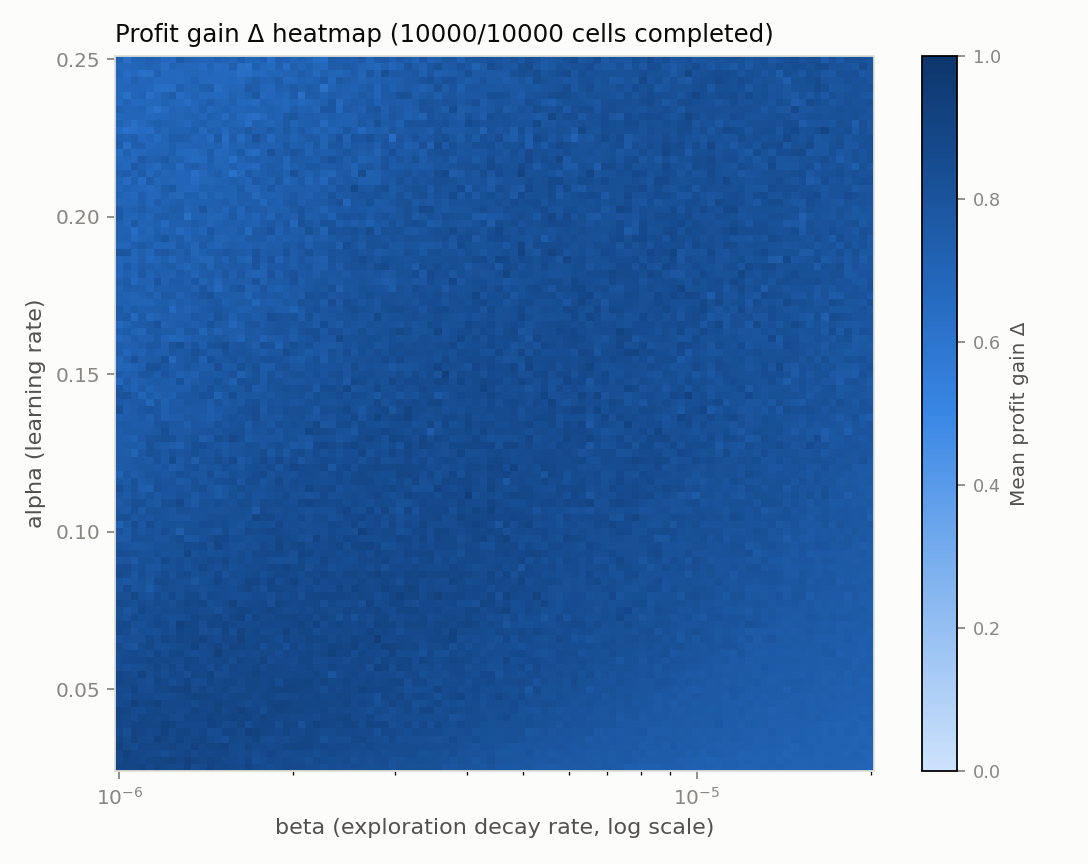
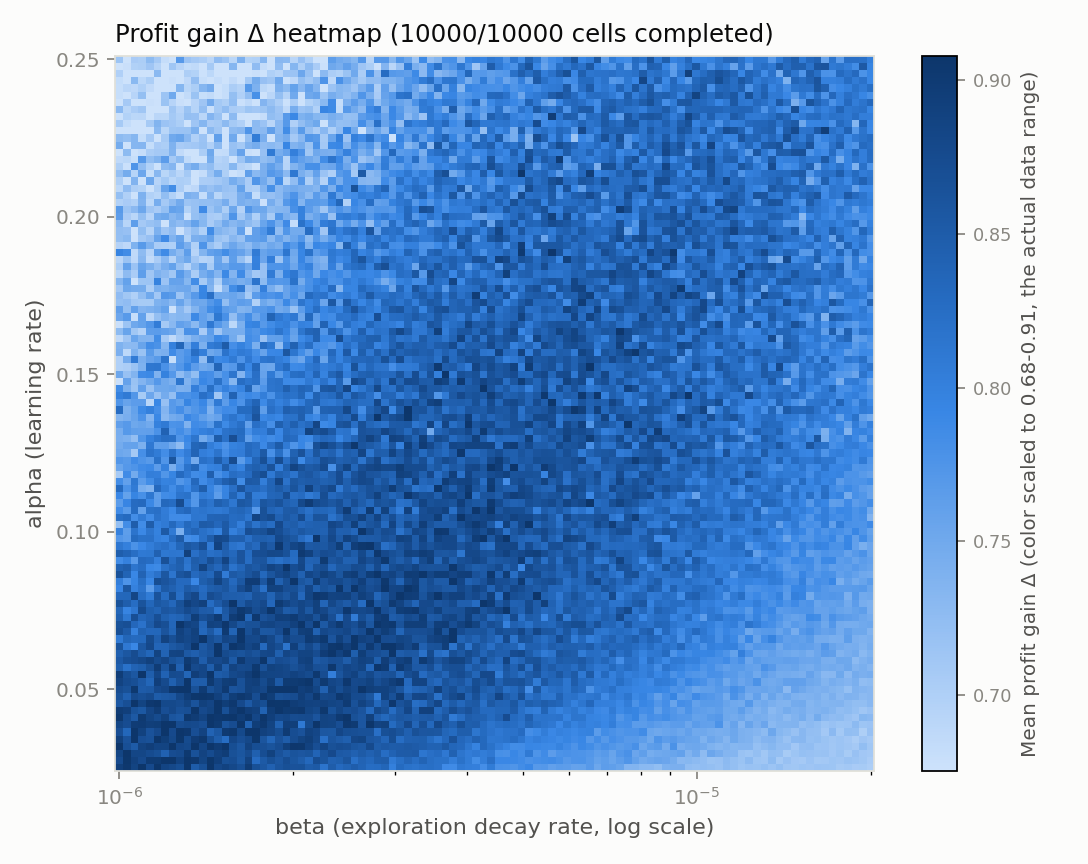
Fix grid heatmap color scale to reveal real structure
The color scale was fixed to the full theoretical [0,1] range, but actual
per-cell means only span ~0.62-0.95, so nearly all real variation was
compressed into the top third of the color range and the grid looked
artificially uniform. Rescales to the data's 1st/99th percentile instead
(same single-hue sequential colormap, just fit to the data) -- this reveals
that Delta is highest at low alpha with mid-to-high beta, and lowest where
high alpha pairs with low beta.

diff --git a/analysis/plot_grid.py b/analysis/plot_grid.py
@@ -103,11 +103,23 @@ def main() -> None:
     n_cells_total = args.n_alpha * args.n_beta
     all_deltas = delta_mean[~np.isnan(delta_mean)]
 
+    # A fixed 0-1 scale is the theoretically meaningful range (0=competitive,
+    # 1=full collusion), but the actual cell means land in a much narrower
+    # band (empirically ~0.62-0.95 here) -- stretching the colormap over the
+    # full 0-1 range crushes almost all of that real variation into the top
+    # third of the color scale and makes the grid look artificially uniform.
+    # Scaling to the 1st/99th percentile of the actual data instead spends
+    # the whole color range on the variation that's actually present.
+    if len(all_deltas) > 0:
+        vmin, vmax = np.percentile(all_deltas, [1, 99])
+    else:
+        vmin, vmax = 0.0, 1.0
+
     fig, ax = plt.subplots(figsize=(6.8, 5.4), facecolor=SURFACE)
     ax.set_facecolor(SURFACE)
 
     im = ax.pcolormesh(
-        betas, alphas, delta_mean, cmap=BLUE_SEQUENTIAL, vmin=0.0, vmax=1.0, shading="nearest",
+        betas, alphas, delta_mean, cmap=BLUE_SEQUENTIAL, vmin=vmin, vmax=vmax, shading="nearest",
     )
     ax.set_xscale("log")
     ax.set_xlabel("beta (exploration decay rate, log scale)", color=INK_SECONDARY, fontsize=10)
@@ -121,7 +133,7 @@ def main() -> None:
     )
 
     cbar = fig.colorbar(im, ax=ax)
-    cbar.set_label("Mean profit gain Δ", color=INK_SECONDARY, fontsize=9)
+    cbar.set_label(f"Mean profit gain Δ (color scaled to {vmin:.2f}-{vmax:.2f}, the actual data range)", color=INK_SECONDARY, fontsize=9)
     cbar.ax.tick_params(colors=INK_MUTED, labelsize=8)
 
     fig.tight_layout()

diff --git a/CLAUDE.md b/CLAUDE.md
@@ -417,8 +417,20 @@ All 100 array tasks `COMPLETED`. Results:
 Every single one of the 200,000 sessions converged — the full paper-scale
 grid confirms the pattern seen at 10×10: given enough periods, this isn't a
 knife-edge phenomenon anywhere on the grid. Mean Δ=0.813 sits close to the
-paper's Table 1 "All" column (0.849); the heatmap
-(`results/grid_heatmap.png`) is visually uniform and dark blue across nearly
-the whole grid, consistent with the paper's own Figure 1 finding that Δ
-holds in a fairly narrow 70-90% band across most of the (alpha, beta) space
-rather than varying dramatically with either parameter.
+paper's Table 1 "All" column (0.849).
+
+**Heatmap color scale (`analysis/plot_grid.py`)**: the first version of
+`results/grid_heatmap.png` fixed the color scale to the full theoretical
+[0,1] range, which made the grid look almost uniformly dark blue — because
+the actual per-cell means only span about 0.62-0.95 (the 1st-99th percentile
+of the 10,000 cells), fixing the scale to [0,1] crushes all of that real
+variation into the top third of the color range. Rescaling the color map to
+the actual data's 1st/99th percentile instead (still a single-hue sequential
+scale, per the dataviz skill's guidance for magnitude data — just with its
+range matched to the data rather than the metric's theoretical bounds)
+reveals real structure: Δ is highest (darkest) at low alpha combined with
+mid-to-high beta, and lowest (lightest) in the upper-left corner — high
+alpha (fast learning) paired with low beta (slow exploration decay).
+Otherwise consistent with the paper's own Figure 1 finding that Δ holds in a
+fairly narrow band across most of the (alpha, beta) space rather than
+varying by an order of magnitude.
